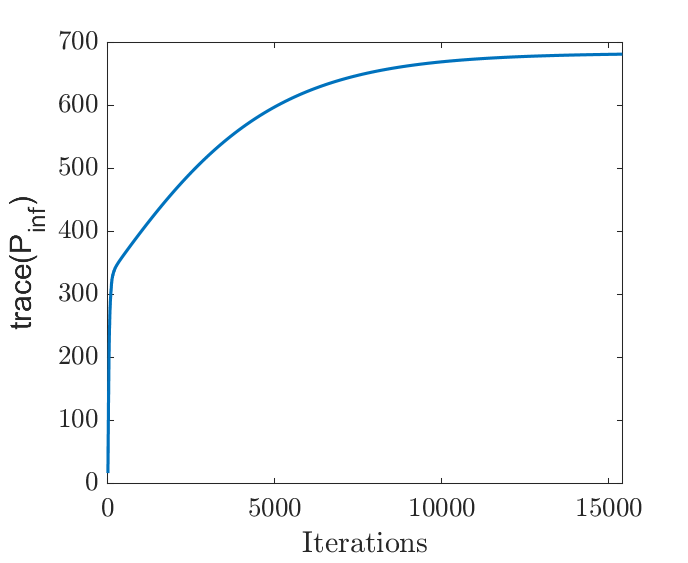
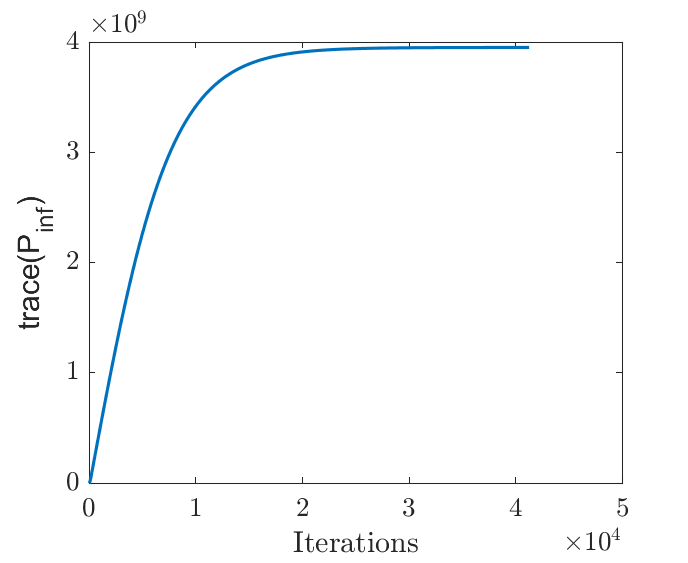
Trying to fix this

diff --git a/slow_ss.m b/slow_ss.m
@@ -50,7 +50,7 @@ function [K,E_fs] = slow_ss(mpc,debug,network,h)
     %Add tie-lines
     E = zeros(size(B_global,2),size(A_global,1));
     E_fs = zeros(size(B_global,2),size(A_global,1));
-
+    k_ties = zeros(1,length(network));
 
     tg_size = cumsum([ 1 ; bus_ss]);
 
@@ -85,17 +85,20 @@ function [K,E_fs] = slow_ss(mpc,debug,network,h)
         end
         
         A_global(2*i-1, i*2) = T_i/network(i).inertia;
-
+        k_ties(i) = T_i;
     end
 
    
     [A,B,~] = discrete_dynamics(A_global,B_global,zeros(size(A_global,1),1),h);
 
     q = zeros(1,size(A,1));
-    q(1:2:end,1) = 10;
-    q(2:2:end,1) = 1;
 
+    %k_ties = A_global(1:2:end,2:2:end);
 
+    q(1:2:end) = 10.*k_ties;
+    q(2:2:end) =0.001.*k_ties;
+
+    
     
     E_to = zeros(size(E));
 
@@ -129,12 +132,26 @@ function [K,E_fs] = slow_ss(mpc,debug,network,h)
         end
     
     end
+    
+
+
+    R_ = zeros(1,size(B,2));
+
+    j = 1;
+
+    for i = 1:size(network,2)
+
+        network(i).machines*size(network(i).to_bus,1);
+        R_(j:j-1+network(i).machines) = k_ties(i);
+        j = j + network(i).machines;
+    end
+
 
     
-    E = E_to;
+    %E = E_to;
 
     tic
-    [K,~,trace_records] = LQROneStepLTI(A,B,diag(q),0.001*eye(size(B,2)),E,NaN);
+    [K,~,trace_records] = LQROneStepLTI(A,B,diag(q),diag(1e3.*R_),E,NaN);
     figure
     plot(trace_records(trace_records>0))
     xlabel('Iterations')

diff --git a/testing_nonlinear.m b/testing_nonlinear.m
@@ -6,7 +6,7 @@ opt = mpoption('verbose',0,'out.all',0);
 
     
 
-% 
+
 % debug = 2;
 % flag_ren = 0;
 % flag_plot_metrics = 0;
@@ -25,18 +25,18 @@ opt = mpoption('verbose',0,'out.all',0);
 
 
 %%%%%%save('data/sim_118_30')
-% 
-% 
-% clear all
-% clearvars -except path; close all; clc;
+
+
+clear all
+clearvars -except path; close all; clc;
 
 load('data/sim_118_30')
 %%
 
 h = 0.1;
 
-simulation_hours = 0;
-simulation_seconds = 1000 + 3600*simulation_hours;
+simulation_hours = 1;
+simulation_seconds = 500 + 3600*simulation_hours;
 
 [A,B,W] = discrete_dynamics(A_c,B_c,W_c,h);
 
@@ -160,6 +160,7 @@ for k = 1:length(t_L)
     delta_u_nld(:,k) = min(max(delta_u_nld(:,k),-0.1),0.1);
     
     if isempty(P_res)
+        %nonlinear_model(t,x,K,network,bus_ss,x0,u0,PL,Pres,Pt0,u_index,delta_u,debug)
         [~,x] = ode45(@(t,x) nonlinear_model(t,x,K,network,bus_ss,x0,u0,P_load(:,k),P_res,Pt0,u_index,delta_u_nld(:,k),debug),[0 h],x_nL_d(:,k),opts);
     else
         [~,x] = ode45(@(t,x) nonlinear_model(t,x,K,network,bus_ss,x0,u0,P_load(:,k),P_res(:,k),Pt0,u_index,delta_u_nld(:,k),debug),[0 h],x_nL_d(:,k),opts);
